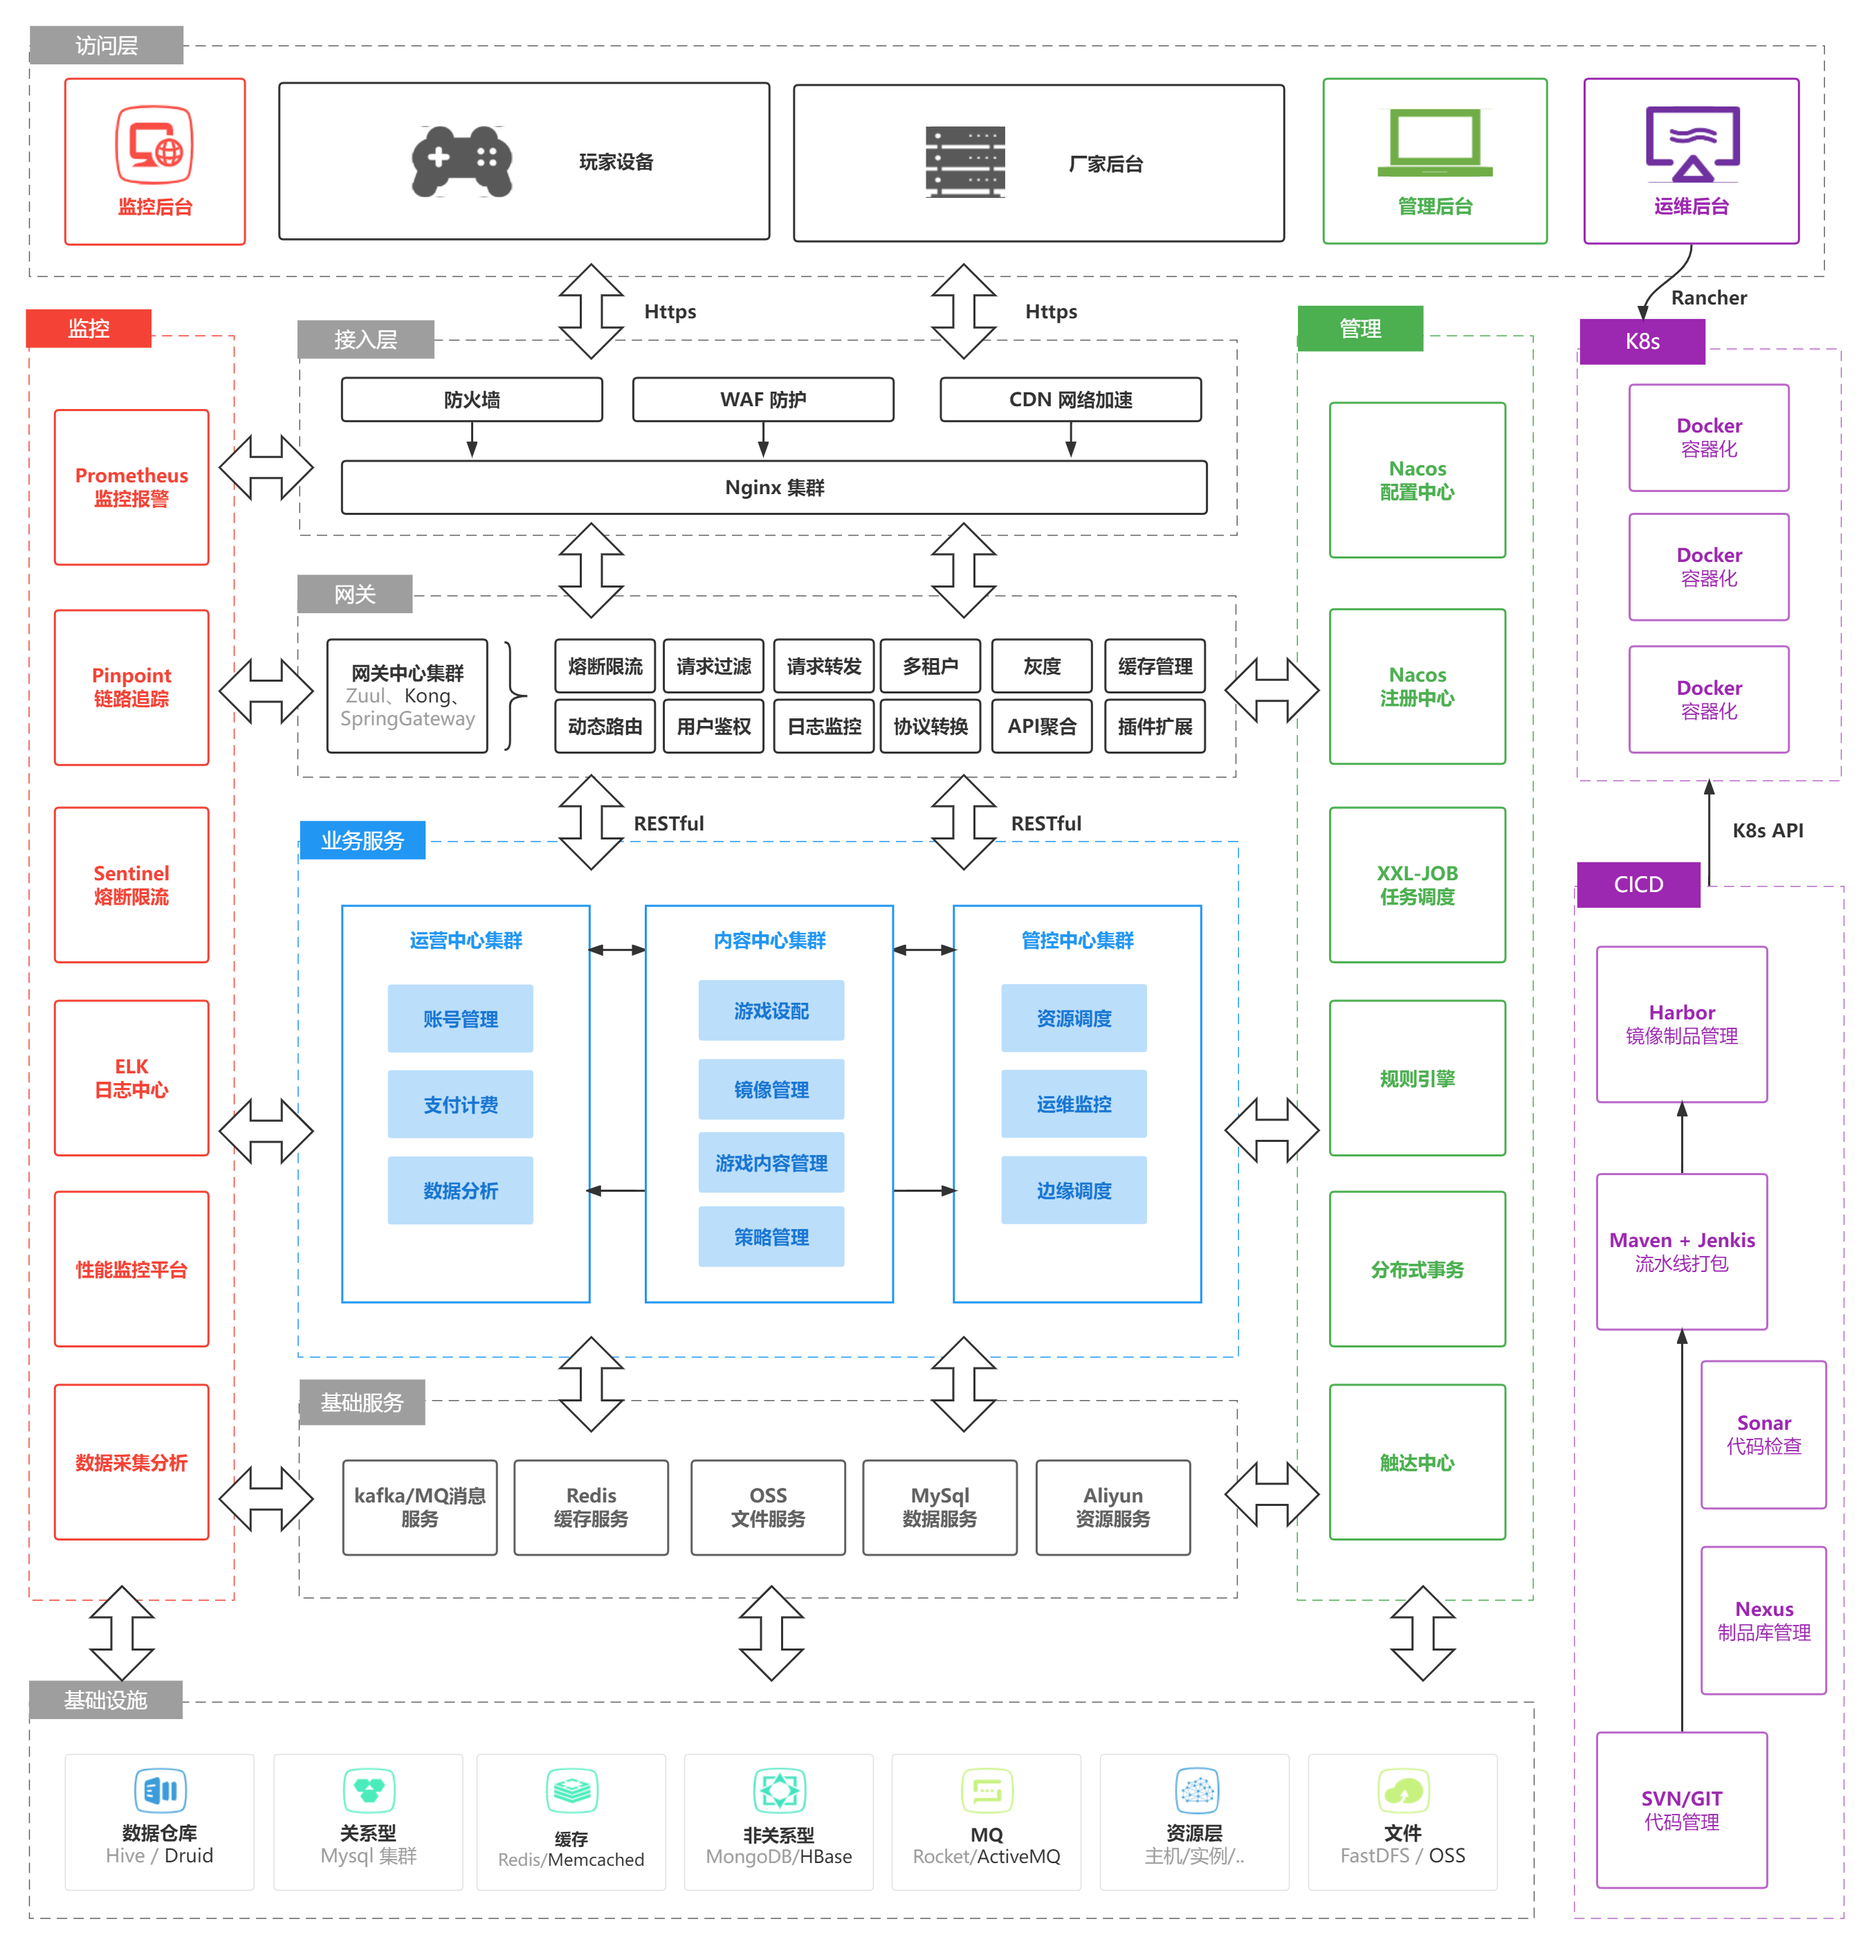
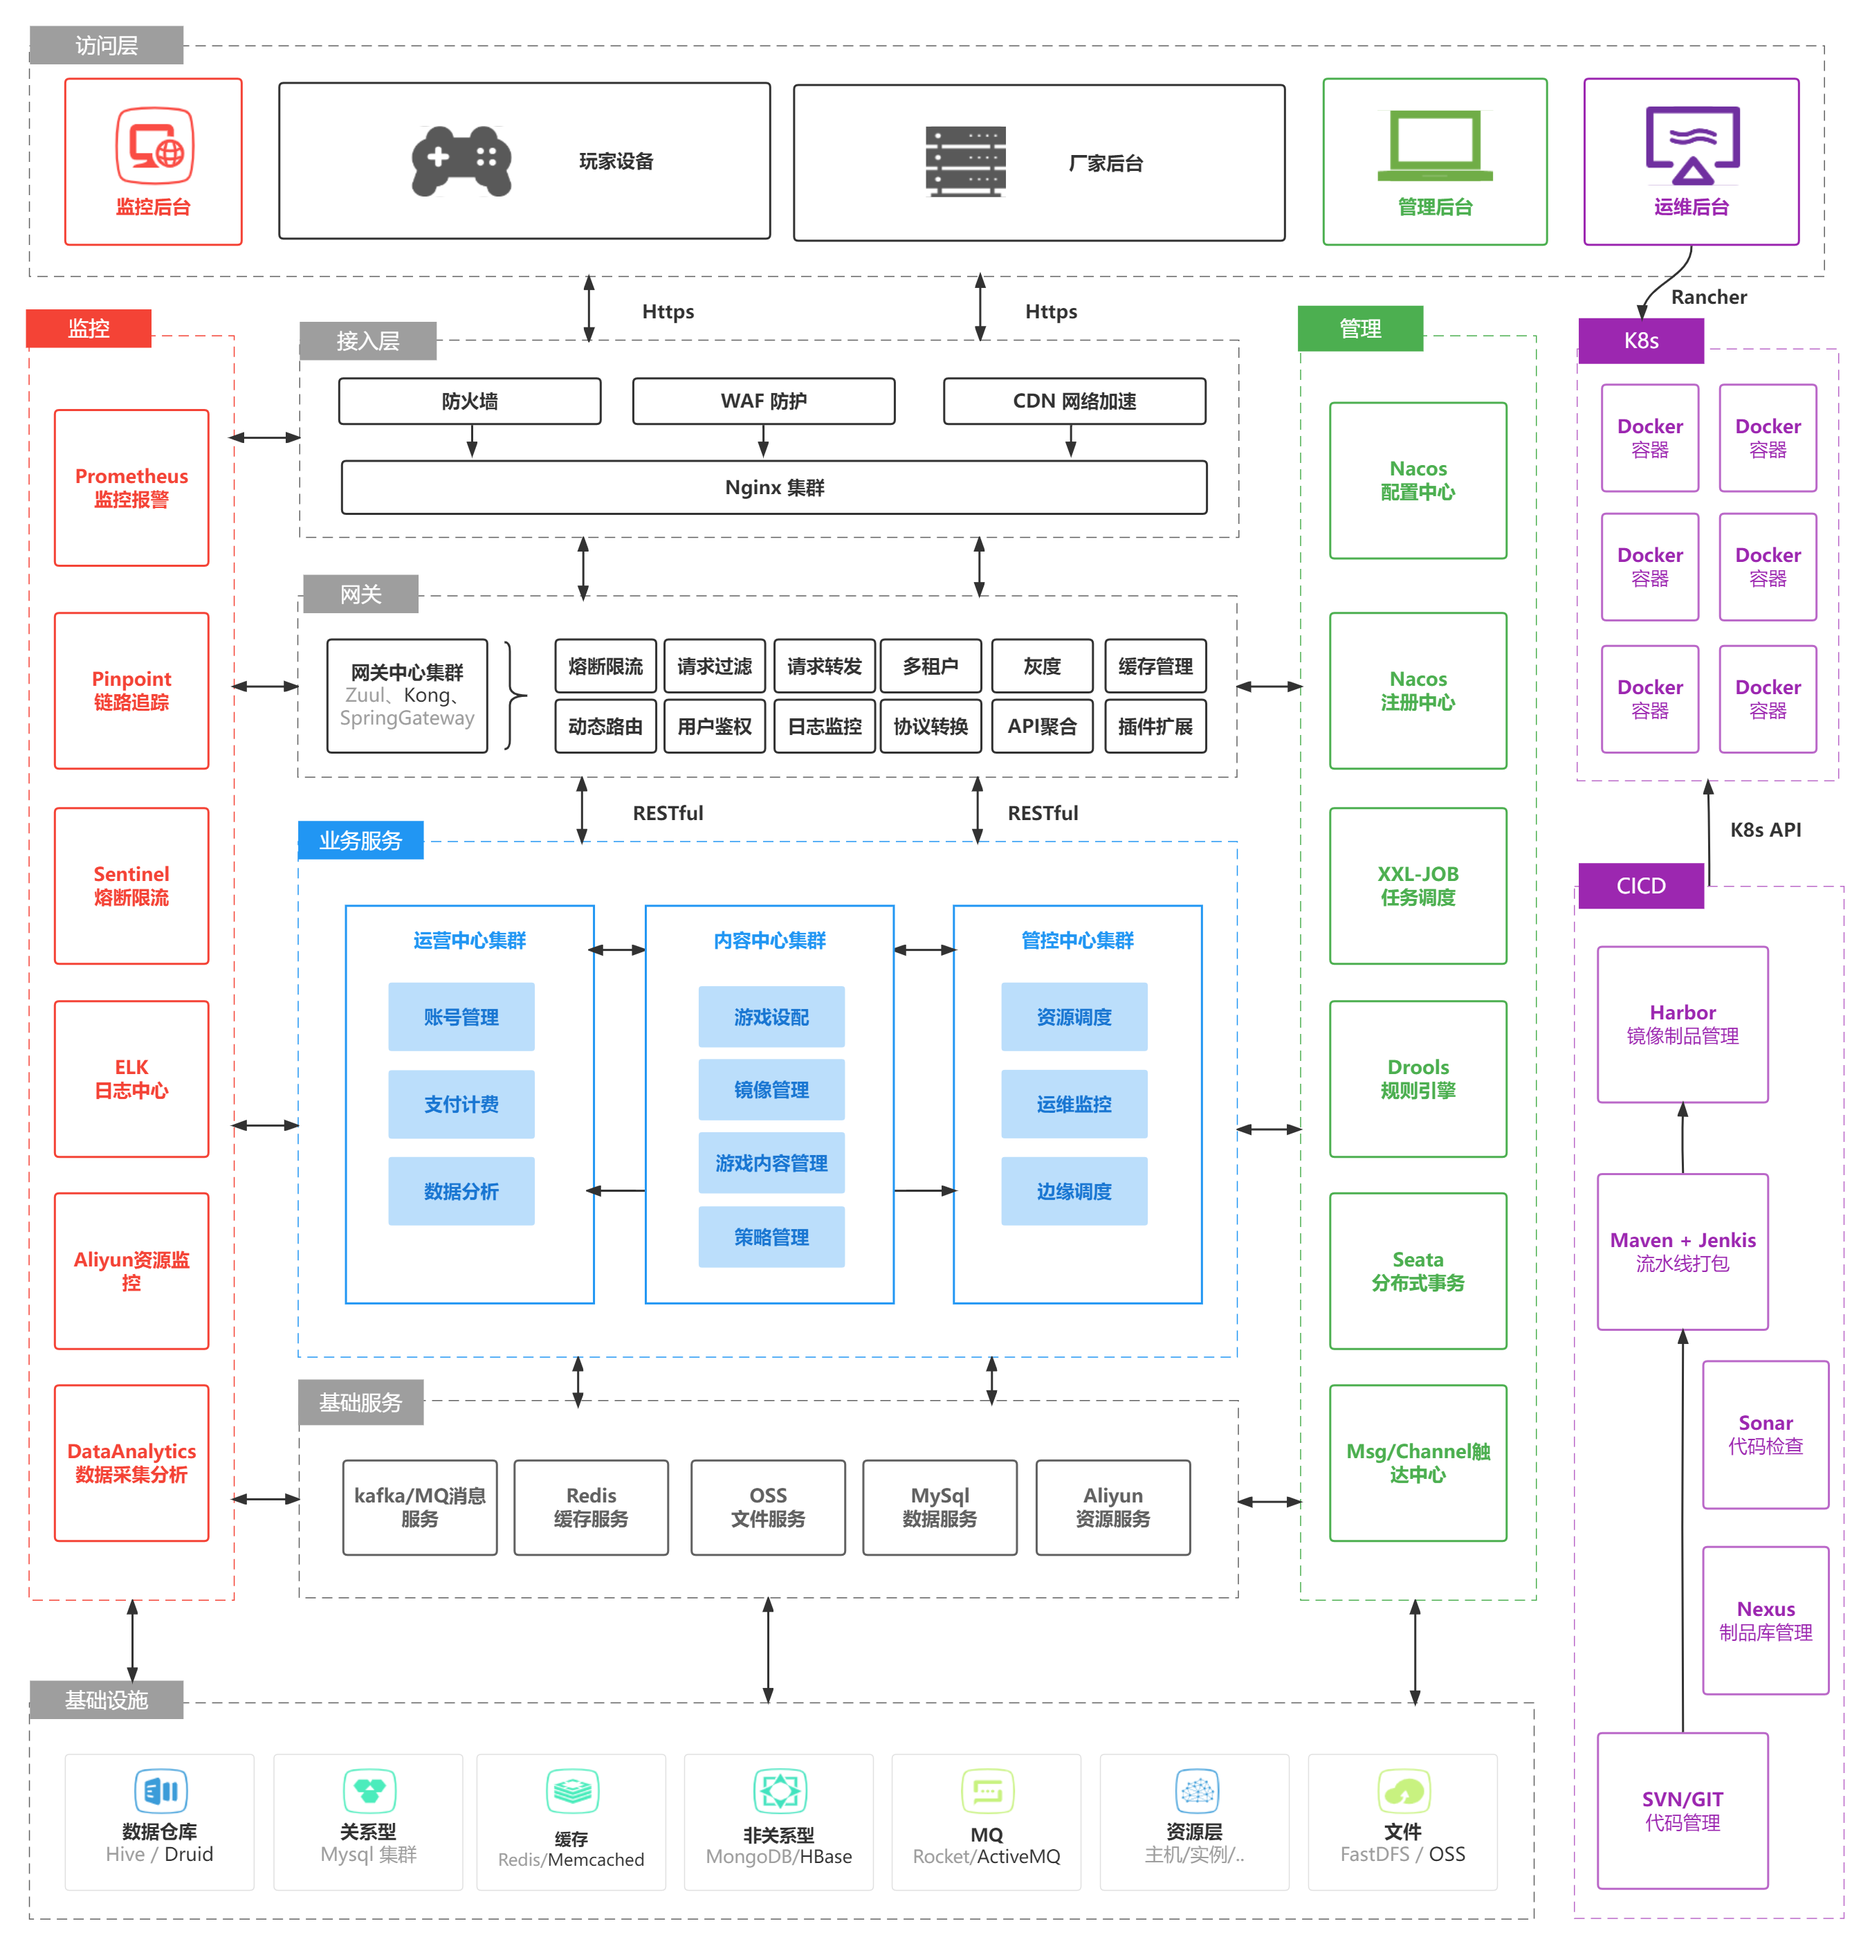
:memo: update the directory of content .

diff --git a/zh-cn/03-tech-architecture-diagram.md b/zh-cn/03-tech-architecture-diagram.md
@@ -46,43 +46,14 @@
 !> 图片预览效果不佳，具体请打开以上详细链接
 
 
-## 交互关系
+## 各中心交互示意图
 
 ![](../_media/image/03-tech-architecture-diagram/cloudgaming-architecture-002.jpg)
 
 
 详见 [ProcessOn - 云游戏平台系统架构之交互关系](https://www.processon.com/view/link/62fe59101efad47d124118d1)
 
-!> 图片预览效果不佳，具体请打开以上详细链接
-
-
-
-## 运营中心
-
-### 数据分析
-
-#### 数据分析技术架构
-
-![data_analyze_framework](../_media/image/03-outline-design/data_analyze_framework.png)
-
-#### 数据分析开发流程
-
-![data_analyze_development_flow](../_media/image/03-outline-design/data_analyze_development_flow.png)
-
-### 中间件
-#### 任务调度 xxl-job架构
-![](../_media/image/03-tech-architecture-diagram/xxl-job.png)
-
-#### 自动化构建测试发布
-##### 流程
-![](../_media/image/03-tech-architecture-diagram/auto-build-test-publish.png)
-## 内容中心
-
-`待补充`
-
-## 管控中心
-
-`待补充`
+!> 图片预览效果不佳，具体请打开以上详细链接 
 
 
 ## 参考

diff --git a/zh-cn/03-deployment-architecture-diagram.md b/zh-cn/03-deployment-architecture-diagram.md
@@ -50,7 +50,19 @@
 
 `待补充`
 
-## 任务调度
+## 日志中心
+
+`待补充`
+
+## 任务调度 xxl-job 架构
+
+![](../_media/image/03-tech-architecture-diagram/xxl-job.png)
+
+## 分布式事务
+
+`待补充`
+
+## 触达中心
 
 `待补充`
 
@@ -74,9 +86,36 @@
 
 `待补充`
 
-## 自动化构建测试发布
+## 自动化构建测试发布流程
+
+![](../_media/image/03-tech-architecture-diagram/auto-build-test-publish.png)
+
+## 监控预警
 
 `待补充`
+
+## 全链路追踪
+
+`待补充`
+
+## 熔断限流
+
+`待补充`
+
+## 性能监控平台
+
+`待补充`
+
+## 数据采集分析
+
+#### 数据分析技术架构
+
+![data_analyze_framework](../_media/image/03-outline-design/data_analyze_framework.png)
+
+#### 数据分析开发流程
+
+![data_analyze_development_flow](../_media/image/03-outline-design/data_analyze_development_flow.png)
+
 
 
 ## 参考
